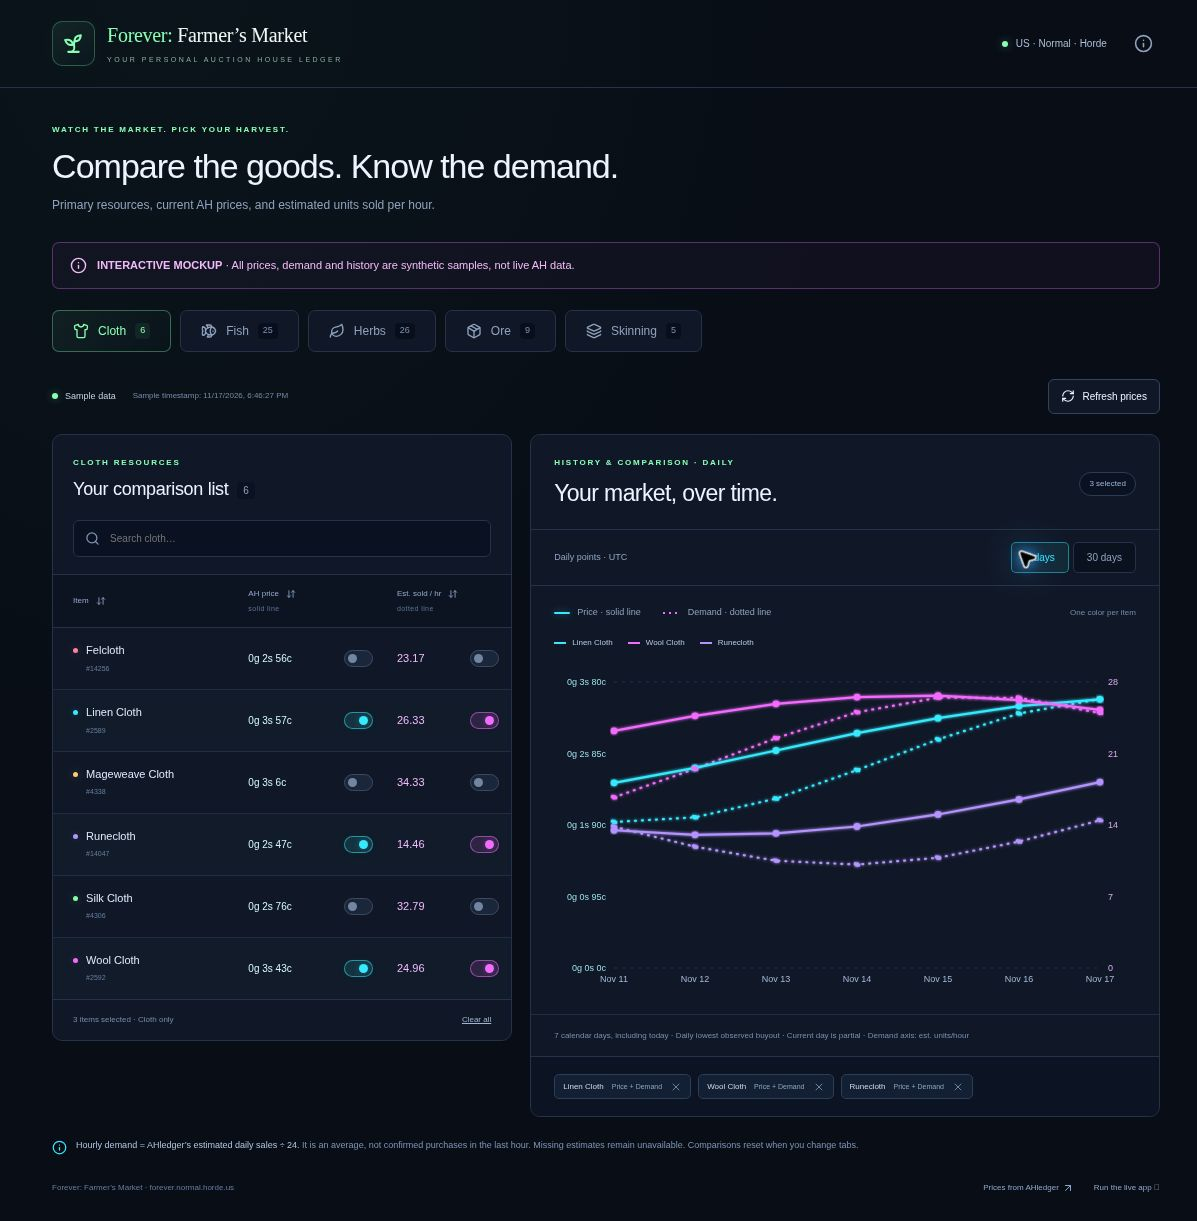
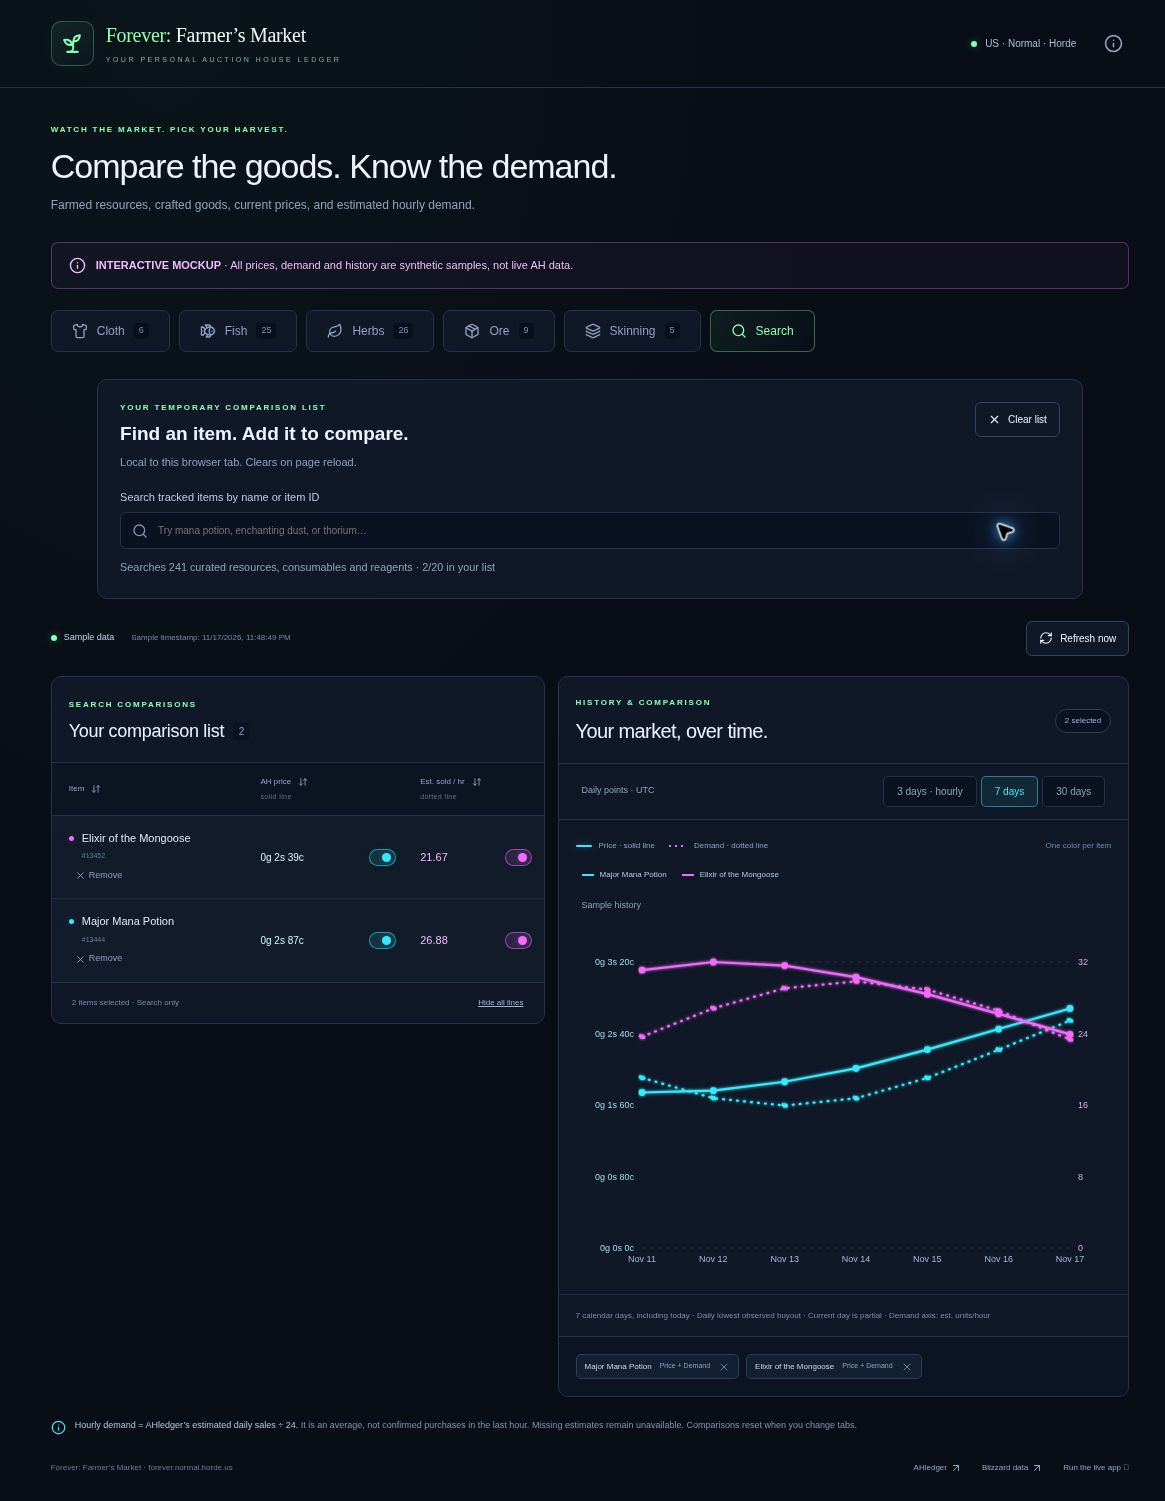
Document and show verified temporary Search comparisons

diff --git a/mockup/README.md b/mockup/README.md
@@ -4,13 +4,13 @@
 
 - Uses the same React dashboard as the live application.
 - All prices, demand and histories are **synthetic sample data**.
-- Try Cloth, Fish, Herbs, Ore and Skinning.
+- Try Cloth, Fish, Herbs, Ore, Skinning and the new Search tab.
 - Toggle each item’s price and demand independently.
 - One graph combines price history, demand history and item comparison.
 - Start with 7 daily points, then switch to 30 daily points.
 - Solid lines show prices; dotted lines show synthetic demand history.
 - Each item has a consistent neon color.
-- Comparisons reset when changing tabs.
+- Farming tabs start blank. Search has autocomplete across 241 curated items and a temporary comparison list that stays while navigating, then clears on reload.
 
 ![Verified desktop preview](preview.jpg)
 
@@ -18,7 +18,7 @@ No server, API key or running WoW client is needed. This preview is not the live
 
 Regenerate from the repository root with `npm run build:mockup`. Commit generated assets with source changes; CI checks they match.
 
-Live AHledger data has price history but no historical sales-rate series. The live app leaves past demand blank and marks only the current rolling estimate at today. This preview uses synthetic demand histories, clearly labeled, to show the combined design.
+Live AHledger data has price history but no historical sales-rate series. Without the optional Blizzard collector, the live app leaves past demand blank and marks only the current rolling estimate at today; with the collector it uses saved turnover intervals. This preview uses synthetic demand histories, clearly labeled, to show the combined design.
 
 ### Three-day hourly view
-The unified graph also offers **3 days · hourly**: 72 UTC hour buckets, including the partial current hour. It reuses the documented seven-day history response and groups available observations by hour, retaining the lowest observed buyout. Missing hours stay gaps. Seven-day and thirty-day views remain daily; seven days remains the default. Live historical demand remains unavailable; the current rolling estimate is only plotted at the current endpoint. The GitHub preview uses synthetic hourly history.
+The unified graph also offers **3 days · hourly**: 72 UTC hour buckets, including the partial current hour. It reuses the documented seven-day history response and groups available observations by hour, retaining the lowest observed buyout. Missing hours stay gaps. Seven-day and thirty-day views remain daily; seven days remains the default. AHledger historical demand remains unavailable; the optional local collector builds dated turnover estimates going forward. The GitHub preview uses synthetic hourly history.
